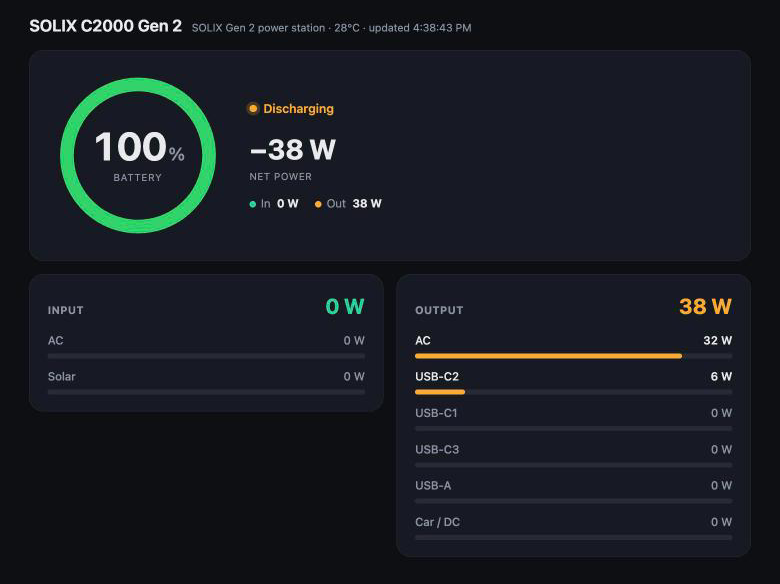
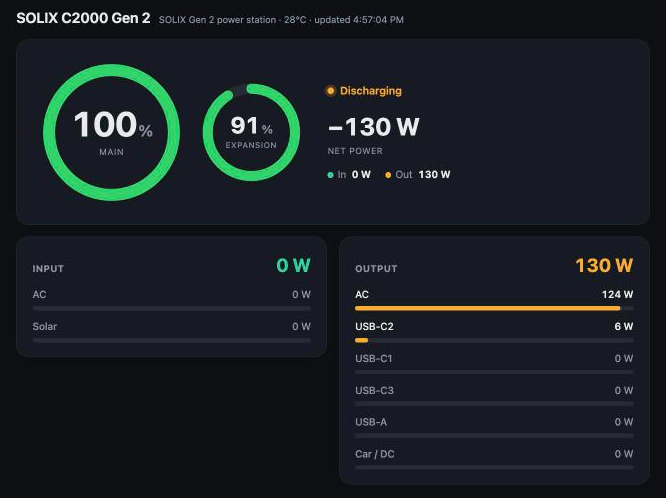
Show separate gauges for main and expansion batteries on status page
One ring per battery field (role battery, then expansion_battery): the
main pack large, expansion packs smaller, each coloured by its own level.
'Full' now requires every pack at 100%. Debug labels input/output ports
as 'in'/'out' so the shortened port names stay unambiguous. Refresh the
README screenshot.

diff --git a/web/src/ui/status-page.ts b/web/src/ui/status-page.ts
@@ -8,6 +8,31 @@ const num = (f?: TelemetryField) => (f && typeof f.value === "number" ? f.value 
 const sum = (fs: TelemetryField[]) => fs.reduce((n, f) => n + (num(f) ?? 0), 0);
 const watts = (n: number | undefined) => (n === undefined ? "—" : `${Math.round(n)} W`);
 
+const SVG = "http://www.w3.org/2000/svg";
+
+/** A ring gauge: track + level arc (pathLength 100, so dasharray = percent) + centered label. */
+function gauge(key: string): HTMLElement {
+  const svg = document.createElementNS(SVG, "svg");
+  svg.setAttribute("viewBox", "0 0 120 120");
+  svg.setAttribute("aria-hidden", "true");
+  for (const cls of ["track", "level"]) {
+    const c = document.createElementNS(SVG, "circle");
+    c.setAttribute("class", cls);
+    c.setAttribute("cx", "60");
+    c.setAttribute("cy", "60");
+    c.setAttribute("r", "52");
+    if (cls === "level") {
+      c.setAttribute("pathLength", "100");
+      c.setAttribute("stroke-dasharray", "0 100");
+    }
+    svg.append(c);
+  }
+  const el = h("div", { class: "ring", role: "img" },
+    svg, h("div", { class: "ring-label" }, h("span", { class: "pct" }, "—"), h("span", { class: "pct-label" })));
+  el.dataset.key = key;
+  return el;
+}
+
 export class StatusPage {
   private conn: ConnectionSnapshot = { device: null, connected: false };
   private session: SessionSnapshot | null = null;
@@ -40,7 +65,6 @@ export class StatusPage {
     const outputs = fields.filter((f) => f.role === "output");
     const totalIn = num(fields.find((f) => f.role === "input_total")) ?? sum(inputs);
     const totalOut = num(fields.find((f) => f.role === "output_total")) ?? sum(outputs);
-    const pct = Math.max(0, Math.min(100, num(battery) ?? 0));
     const temp = fields.find((f) => f.role === "temperature");
 
     $("statusDevice").textContent = this.conn.device?.name ?? this.session?.model.name ?? "Power station";
@@ -50,19 +74,17 @@ export class StatusPage {
       `updated ${t.at.toLocaleTimeString()}`,
     ].filter(Boolean).join(" · ");
 
-    // Battery ring
-    const card = $("batteryRing").closest<HTMLElement>(".battery-card")!;
-    card.dataset.level = pct <= 20 ? "low" : pct <= 50 ? "mid" : "high";
-    $("batteryArc").setAttribute("stroke-dasharray", `${pct} 100`);
-    $("batteryRing").setAttribute("aria-label", `Battery ${pct} percent`);
-    $("batteryPct").replaceChildren(String(Math.round(pct)), h("small", {}, "%"));
+    // One gauge per battery: the main pack, then any expansion packs.
+    const packs = [battery, ...fields.filter((f) => f.role === "expansion_battery")];
+    this.renderGauges(packs);
+    const allFull = packs.every((f) => (num(f) ?? 0) >= 100);
 
     // Flow summary
     const net = totalIn - totalOut;
     const flow = $("flowState");
     const state = totalIn > totalOut && totalIn > 0 ? "charging" : totalOut > totalIn ? "discharging" : "idle";
     flow.dataset.state = state;
-    flow.textContent = state === "charging" ? (pct >= 100 ? "Full, on input power" : "Charging")
+    flow.textContent = state === "charging" ? (allFull ? "Full, on input power" : "Charging")
       : state === "discharging" ? "Discharging" : "Idle";
     $("netWatts").textContent = `${net > 0 ? "+" : net < 0 ? "−" : ""}${Math.abs(Math.round(net))} W`;
     $("totalIn").textContent = watts(totalIn);
@@ -72,6 +94,35 @@ export class StatusPage {
 
     this.renderPorts($("inputs"), inputs, totalIn, "No inputs reported");
     this.renderPorts($("outputs"), outputs, totalOut, "No outputs reported");
+  }
+
+  /**
+   * Gauges are keyed by field and reused across readings so the arcs animate.
+   * With one pack the gauge reads "battery"; with several, "main" / "expansion".
+   */
+  private renderGauges(packs: TelemetryField[]) {
+    const root = $("gauges");
+    const multi = packs.length > 1;
+    root.classList.toggle("multi", multi);
+    const keep = new Set(packs.map((f) => f.key));
+    for (const el of [...root.children] as HTMLElement[]) if (!keep.has(el.dataset.key!)) el.remove();
+
+    packs.forEach((f, i) => {
+      let g = root.querySelector<HTMLElement>(`[data-key="${f.key}"]`);
+      if (!g) {
+        g = gauge(f.key);
+        root.append(g);
+      }
+      if (root.children[i] !== g) root.insertBefore(g, root.children[i] ?? null);
+      const pct = Math.max(0, Math.min(100, num(f) ?? 0));
+      const name = !multi ? "battery" : f.role === "battery" ? "main" : "expansion";
+      g.classList.toggle("secondary", i > 0);
+      g.dataset.level = pct <= 20 ? "low" : pct <= 50 ? "mid" : "high";
+      g.setAttribute("aria-label", `${multi ? name[0]!.toUpperCase() + name.slice(1) + " battery" : "Battery"} ${Math.round(pct)} percent`);
+      g.querySelector(".level")!.setAttribute("stroke-dasharray", `${pct} 100`);
+      g.querySelector(".pct")!.replaceChildren(String(Math.round(pct)), h("small", {}, "%"));
+      g.querySelector(".pct-label")!.textContent = name;
+    });
   }
 
   private renderPorts(list: HTMLElement, ports: TelemetryField[], total: number, emptyText: string) {

diff --git a/web/style.css b/web/style.css
@@ -70,12 +70,25 @@ button.small { padding: 1px 6px; font-size: 11px; border-radius: 6px; }
 .meta { color: var(--muted); font-size: 13px; }
 
 .battery-card, .flow-card { background: var(--panel); border: 1px solid var(--border); border-radius: 18px; box-shadow: var(--shadow); }
-.battery-card { display: flex; align-items: center; gap: 36px; padding: 28px 32px; margin-bottom: 16px; --level: var(--lvl-high); }
-.battery-card[data-level="mid"] { --level: var(--lvl-mid); }
-.battery-card[data-level="low"] { --level: var(--lvl-low); }
-@media (max-width: 560px) { .battery-card { flex-direction: column; gap: 20px; padding: 24px 16px; text-align: center; } }
+.battery-card { display: flex; align-items: center; gap: 36px; padding: 28px 32px; margin-bottom: 16px; }
+@media (max-width: 680px) { .battery-card { flex-direction: column; gap: 20px; padding: 24px 16px; text-align: center; } }
 
-.ring { position: relative; width: 200px; height: 200px; flex: none; }
+.gauges { display: flex; align-items: center; gap: 24px; flex: none; }
+.ring { position: relative; width: 200px; height: 200px; flex: none; --level: var(--lvl-high); }
+.ring[data-level="mid"] { --level: var(--lvl-mid); }
+.ring[data-level="low"] { --level: var(--lvl-low); }
+.ring.secondary { width: 140px; height: 140px; }
+.ring.secondary circle { stroke-width: 12; }
+.ring.secondary .pct { font-size: 32px; }
+.ring.secondary .pct small { font-size: 16px; }
+.ring.secondary .pct-label { margin-top: 4px; font-size: 11px; }
+@media (max-width: 420px) {
+  .gauges { gap: 14px; }
+  .gauges.multi .ring { width: 150px; height: 150px; }
+  .gauges.multi .ring .pct { font-size: 36px; }
+  .gauges.multi .ring.secondary { width: 112px; height: 112px; }
+  .gauges.multi .ring.secondary .pct { font-size: 26px; }
+}
 .ring svg { width: 100%; height: 100%; transform: rotate(-90deg); }
 .ring circle { fill: none; stroke-width: 10; }
 .ring .track { stroke: var(--track); }

diff --git a/web/index.html b/web/index.html
@@ -42,16 +42,7 @@
       </div>
 
       <section class="battery-card">
-        <div class="ring" role="img" id="batteryRing">
-          <svg viewBox="0 0 120 120" aria-hidden="true">
-            <circle class="track" cx="60" cy="60" r="52"/>
-            <circle class="level" id="batteryArc" cx="60" cy="60" r="52" pathLength="100" stroke-dasharray="0 100"/>
-          </svg>
-          <div class="ring-label">
-            <span id="batteryPct" class="pct">—</span>
-            <span class="pct-label">battery</span>
-          </div>
-        </div>
+        <div id="gauges" class="gauges"></div>
         <div class="battery-side">
           <div id="flowState" class="flow-state">—</div>
           <div class="net"><span id="netWatts">—</span><span class="net-label">net power</span></div>

diff --git a/web/src/ui/solix-panel.ts b/web/src/ui/solix-panel.ts
@@ -64,7 +64,11 @@ export class SolixPanel {
     block.replaceChildren(table);
     $("solixRawHint").hidden = true;
 
-    if (t.fields.length) fillKv($("solixDecoded"), t.fields.map((f) => [f.label, formatField(f)]));
+    // Port labels are short ("AC") because the status page groups them under
+    // Input/Output; in this flat list, say which side they're on.
+    const label = (f: TelemetryEvent["fields"][number]) =>
+      f.role === "input" ? `${f.label} in` : f.role === "output" ? `${f.label} out` : f.label;
+    if (t.fields.length) fillKv($("solixDecoded"), t.fields.map((f) => [label(f), formatField(f)]));
   }
 
   /**

diff --git a/README.md b/README.md
@@ -3,7 +3,7 @@
 See and monitor Anker SOLIX power stations straight from Chrome over Web
 Bluetooth. No app or cloud account needed.
 
-![Status page showing a SOLIX C2000 Gen 2 at 100% battery with 38 W output](docs/status.png)
+![Status page showing a SOLIX C2000 Gen 2 with main and expansion battery gauges and live power output](docs/status.png)
 
 ## Run it
 
